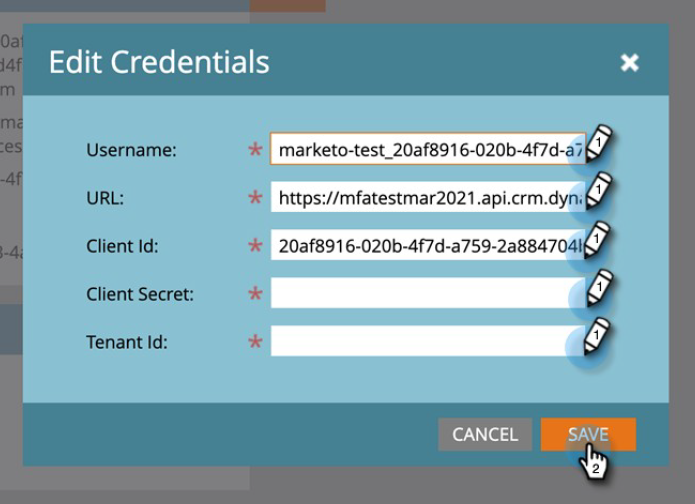
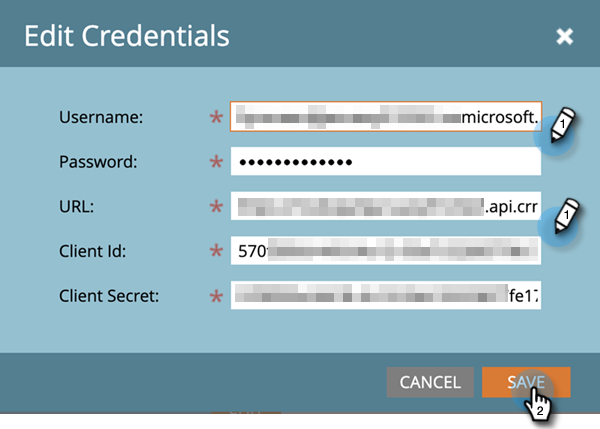
several changes

diff --git a/help/marketo/product-docs/crm-sync/microsoft-dynamics-sync/sync-setup/validate-microsoft-dynamics-sync/fix-dynamics-validation-sync-issues.md b/help/marketo/product-docs/crm-sync/microsoft-dynamics-sync/sync-setup/validate-microsoft-dynamics-sync/fix-dynamics-validation-sync-issues.md
@@ -8,13 +8,13 @@ exl-id: 1a300249-65b7-49b1-bf50-82236916298f
 
 ## Validate Sync Tool Results {#validate-sync-tool-results}
 
-When you run the Dynamics Validate Sync, it generates this report. If there's an ![delete](assets/delete.png) next to a step, see below to identify and fix the problem. Then rerun the sync validation steps until the result shows nothing but checkmarks.
+When you run the Dynamics Validate Sync, it generates a report. If there's an ![x](assets/delete.png) next to a step, see the options below to identify and fix the problem. Then, rerun the sync validation steps until the result shows nothing but green checkmarks.
 
 ![](assets/image2015-9-22-15-3a58-3a12.png)
 
 ## URL is valid {#url-is-valid}
 
-If you have an ![delete](assets/delete.png) here, verify that the URL is valid. Find it here in Developer Resources and look at Organization Service. The URL could be invalid for a number of reasons.
+If you have an ![x](assets/delete.png) here, verify that the URL is valid. Find it here in Developer Resources and look at Organization Service. The URL could be invalid for a number of reasons.
 
 1. Log-in to Dynamics. Click the Settings icon and select **Advanced Settings**.
 
@@ -34,11 +34,13 @@ If you have an ![delete](assets/delete.png) here, verify that the URL is valid. 
 
 ## Username and password are valid {#username-and-password-are-valid}
 
-If you have an ![--](assets/delete.png) here, verify that your Microsoft Dynamics username and password are valid.
+If you have an ![x](assets/delete.png) here, verify that your Microsoft Dynamics username and password are valid.
 
 ## Sync user is assigned to the Marketo Sync User role {#sync-user-is-assigned-to-the-marketo-sync-user-role}
 
-If you have an ![--](assets/delete.png) here, you need to verify that the Marketo Sync User role is checked in Microsoft Dynamics. See Step 2 of the MIcrosoft Dynamics installation documentation.
+If you have an ![x](assets/delete.png) here, it could be one of the two reasons below.
+
+**Option One - Verify That the Marketo Sync User Role Is Checked in Microsoft Dynamics**:
 
 1. In Dynamics, click the Settings icon and select **Advanced Settings**.
 
@@ -64,9 +66,13 @@ If you have an ![--](assets/delete.png) here, you need to verify that the Market
 
    ![](assets/image2015-9-24-9-3a59-3a21.png)
 
+**Option Two - Confirm Grant Consent**:
+
+1. Review the [Grant Consent for Client Id and App Registration](/help/marketo/product-docs/crm-sync/microsoft-dynamics-sync/sync-setup/grant-consent-for-client-id-and-app-registration.md) to confirm the app has admin consent to call APIs.
+
 ## Marketo solution is properly installed {#marketo-solution-is-properly-installed}
 
-If you have an ![--](assets/delete.png) here, Go to Microsoft Dynamics to verify the Marketo installation is there. See Step 1 of the MIcrosoft Dynamics setup documentation.
+If you have an ![x](assets/delete.png) here, Go to Microsoft Dynamics to verify the Marketo installation is there. See Step 1 of the MIcrosoft Dynamics setup documentation.
 
 1. In Dynamics, click the Settings icon and select **Advanced Settings**.
 
@@ -82,11 +88,11 @@ If you have an ![--](assets/delete.png) here, Go to Microsoft Dynamics to verify
 
 ## All steps in the solution are enabled {#all-steps-in-the-solution-are-enabled}
 
-If you have an ![--](assets/delete.png) here, verify that none of the default steps have been deactivated. All steps are automatically enabled at installation, but they could be deactivated during a customization.
+If you have an ![x](assets/delete.png) here, verify that none of the default steps have been deactivated. All steps are automatically enabled at installation, but they could be deactivated during a customization.
 
 ## Sync user is assigned to the Marketo solution {#sync-user-is-assigned-to-the-marketo-solution}
 
-If you have an ![--](assets/delete.png) here, make sure the Sync user is assigned on the Marketo Default page in Microsoft Dynamics.
+If you have an ![x](assets/delete.png) here, make sure the Sync user is assigned on the Marketo Default page in Microsoft Dynamics.
 
 1. In Dynamics, click the Settings icon and select **Advanced Settings**.
 
@@ -102,7 +108,7 @@ If you have an ![--](assets/delete.png) here, make sure the Sync user is assigne
 
 ## Sync user matches username and password {#sync-user-matches-username-and-password}
 
-If you have an ![--](assets/delete.png) here, be sure to assign the proper sync user in the Marketo User field in the Marketo Config Default setup step in Microsoft Dynamics.
+If you have an ![x](assets/delete.png) here, be sure to assign the proper sync user in the Marketo User field in the Marketo Config Default setup step in Microsoft Dynamics.
 
 >[!MORELIKETHIS]
 >

diff --git a/help/marketo/product-docs/crm-sync/microsoft-dynamics-sync/sync-setup/microsoft-dynamics-365-with-s2s-connection/step-2-of-3-set-up.md b/help/marketo/product-docs/crm-sync/microsoft-dynamics-sync/sync-setup/microsoft-dynamics-365-with-s2s-connection/step-2-of-3-set-up.md
@@ -38,7 +38,13 @@ exl-id: 324e2142-2aa2-4548-9a04-683832e3ba69
 
    ![](assets/step-2-of-3-set-up-marketo-sync-user-in-dynamics-s2s-4.png)
 
-1. Follow steps from the following link to [set up an application user in  Microsoft](https://docs.microsoft.com/en-us/powerapps/developer/common-data-service/use-single-tenant-server-server-authentication#application-user-creation). While giving permissions to the Application User, assign it to "Marketo  Sync User Role."
+## Create Application User in Microsoft {#create-application-user-in-microsoft}
+
+1. Follow steps from the following link to [set up an application user in  Microsoft](https://docs.microsoft.com/en-us/powerapps/developer/common-data-service/use-single-tenant-server-server-authentication#application-user-creation).
+
+   >[!IMPORTANT]
+   >
+   >While giving permissions to the Application User, be sure to assign it to "Marketo Sync User Role."
 
 ## Azure AD Federated with AD FS On-prem {#azure-ad-federated-with-ad-fs-on-prem}
 
@@ -46,37 +52,13 @@ Federated Azure AD to ADFS Onprem needs the creation of a Home Realm Discovery p
 
 Additional references [can be found here](https://docs.microsoft.com/en-us/azure/active-directory/reports-monitoring/concept-all-sign-ins#:~:text=Interactive%20user%20sign%2Dins%20are,as%20the%20Microsoft%20Authenticator%20app.&text=This%20report%20also%20includes%20federated,are%20federated%20to%20Azure%20AD.).
 
-## Assign Sync User Role {#assign-sync-user-role}
-
-1. Assign the Marketo Sync User role to the Marketo sync user only.
-
->[!NOTE]
->
->This applies to Marketo version 4.0.0.14 and later. For earlier versions, all users must have the sync user role. To upgrade your Marketo solution, [see this article](/help/marketo/product-docs/crm-sync/microsoft-dynamics-sync/sync-setup/update-the-marketo-solution-for-microsoft-dynamics.md).
-
-1. Go back to the Application Users tab and refresh the users list.
-
-   ![](assets/step-2-of-3-set-up-marketo-sync-user-in-dynamics-s2s-5.png)
-
-1. Hover next to the newly created  Application  user, and a checkbox will appear. Click to select it.
-
-   ![](assets/step-2-of-3-set-up-marketo-sync-user-in-dynamics-s2s-6.png)
-
-1. Click **Manage Roles**.
-
-   ![](assets/step-2-of-3-set-up-marketo-sync-user-in-dynamics-s2s-7.png)
-
-1. Check **Marketo Sync User** and click **OK**.
-
-   ![](assets/step-2-of-3-set-up-marketo-sync-user-in-dynamics-s2s-8.png)
-
 ## Configure Marketo Solution {#configure-marketo-solution}
 
 Almost there! All we have left is to inform Marketo Solution about the new user created.
 
->[!IMPORTANT]
->
->If you’re upgrading from Basic Authentication to OAuth, you’ll need to contact [Marketo Support](https://nation.marketo.com/t5/support/ct-p/Support) for help with updating the additional parameters. Enabling this feature will temporarily stop the sync until new credentials are entered and the sync is re-enabled. The feature can be disabled (until April 2022) should you want to revert to the old Authentication mode.
+   >[!IMPORTANT]
+   >
+   >If you’re upgrading from Basic Authentication to OAuth, you’ll need to contact [Marketo Support](https://nation.marketo.com/t5/support/ct-p/Support) for help with updating the additional parameters. Performing a configuration change to Default Sync user will temporarily stop the sync until new credentials are entered and the sync is re-enabled. At your request, Marketo Support can disable the feature (until April 2022) should you want to revert to the old Authentication method.
 
 1. Go back to the Advanced Settings section and click the ![](assets/image2015-5-13-15-3a49-3a19.png) icon next to Settings, and select **Marketo Config**.
 
@@ -118,4 +100,5 @@ Almost there! All we have left is to inform Marketo Solution about the new user 
 
 >[!MORELIKETHIS]
 >
->[Step 3 of 3: Connect the Marketo Solution with Server to Server Connection](/help/marketo/product-docs/crm-sync/microsoft-dynamics-sync/sync-setup/microsoft-dynamics-365-with-s2s-connection/step-3-of-3-connect.md)
+>* [Step 3 of 3: Connect the Marketo Solution with Server to Server Connection](/help/marketo/product-docs/crm-sync/microsoft-dynamics-sync/sync-setup/microsoft-dynamics-365-with-s2s-connection/step-3-of-3-connect.md)
+>* [Reconfigure Dynamics Authentication Method](/help/marketo/product-docs/crm-sync/microsoft-dynamics-sync/sync-setup/reconfigure-dynamics-authentication-method.md)

diff --git a/help/marketo/product-docs/crm-sync/microsoft-dynamics-sync/sync-setup/reconfigure-dynamics-authentication-method.md b/help/marketo/product-docs/crm-sync/microsoft-dynamics-sync/sync-setup/reconfigure-dynamics-authentication-method.md
@@ -10,6 +10,55 @@ Intro text
 
 >[!PREREQUISITES]
 >
->Set up the application in Microsoft Dynamics and active directory (Azure AD/ADFS) using the preferred authentication from the following articles:
->* 1
->* 2
+>Set up the application in Microsoft Dynamics and active directory (Azure AD/ADFS) using the desired authentication method from either of the following articles:
+>* [Step 2 of 3: Set up Marketo Solution with Server to Server Connection](/help/marketo/product-docs/crm-sync/microsoft-dynamics-sync/sync-setup/microsoft-dynamics-365-with-s2s-connection/step-2-of-3-set-up.md)
+>* [Step 2 of 4: Set up the Marketo Solution with Resource Owner Password Control Connection](/help/marketo/product-docs/crm-sync/microsoft-dynamics-sync/sync-setup/microsoft-dynamics-365-with-ropc-connection/step-2-of-4-set-up.md)
+
+1. In Marketo click **Admin**.
+
+   ![](assets/reconfigure-dynamics-authentication-method-1.png)
+
+1. Click **Microsoft Dynamics**, then **Disable Sync**.
+
+   ![](assets/reconfigure-dynamics-authentication-method-2.png)
+
+   >[!NOTE]
+   >
+   >You must disable the global sync temporarily in order to update the Authentication Method.
+
+1. Click the **Reconfigure New Auth Method** tab.
+
+   ![](assets/reconfigure-dynamics-authentication-method-3.png)
+
+1. Select the desired new Authentication Method (in this example we're choosing Web API).
+
+   ![](assets/reconfigure-dynamics-authentication-method-4.png)
+
+1. Enter the credentials required for the new Authentication Method and click **Validate**.
+
+   ![](assets/reconfigure-dynamics-authentication-method-5.png)
+
+   >[!NOTE]
+   >
+   >* The specific fields will vary by the chosen authentication method and the form will be automatically updated depending on previous authentication method.
+   >* If you’ve synced before, the data in the above form may be pre-populated. Please re-enter all credentials to ensure the correct values.
+
+1. If everything is fine, the Validate Sync will generate all green checkmarks ![](assets/green-check.png). Review the message and click **Switch** to update the Authentication Method.
+
+   ![](assets/reconfigure-dynamics-authentication-method-6.png)
+
+   >[!NOTE]
+   >
+   >If you see a ![](assets/red-x.png), that step has an issue. See [Fix Dynamics Validation Sync Issues](/help/marketo/product-docs/crm-sync/microsoft-dynamics-sync/sync-setup/validate-microsoft-dynamics-sync/fix-dynamics-validation-sync-issues.md) to identify and fix the problem(s). Then rerun the sync validation steps until the result looks like the image above.
+
+1. Click **Confirm** to proceed.
+
+   ![](assets/reconfigure-dynamics-authentication-method-7.png)
+
+1. Click **Confirm** again.
+
+1. Click **OK**.
+
+   >[!IMPORTANT]
+   >
+   >Remember to re-enable the sync!

diff --git a/help/marketo/product-docs/crm-sync/microsoft-dynamics-sync/sync-setup/microsoft-dynamics-365-with-ropc-connection/step-4-of-4-connect.md b/help/marketo/product-docs/crm-sync/microsoft-dynamics-sync/sync-setup/microsoft-dynamics-365-with-ropc-connection/step-4-of-4-connect.md
@@ -47,7 +47,7 @@ This is the last step of the sync. You're almost there!
    >
    >Before you enter new credentials, you can [validate them here](/help/marketo/product-docs/crm-sync/microsoft-dynamics-sync/sync-setup/validate-microsoft-dynamics-sync.md).
 
-1. Enter the **Username**, **Password**, **Client ID**, **Client Secret**, and Microsoft Dynamics **URL**. Click **Save** when done.
+1. Enter the **Username**, **Password**, Microsoft Dynamics **URL**, **Client ID**, and **Client Secret**. Click **Save** when done.
 
    ![](assets/step-4-of-4-connect-ropc-5.png)
 
@@ -104,3 +104,7 @@ If you've created a custom filter, be sure to go in and select the new fields to
    ![](assets/image2015-3-16-9-3a59-3a51.png)
 
 Excellent work!
+
+>[!MORELIKETHIS]
+>
+>[Reconfigure Dynamics Authentication Method](/help/marketo/product-docs/crm-sync/microsoft-dynamics-sync/sync-setup/reconfigure-dynamics-authentication-method.md)
